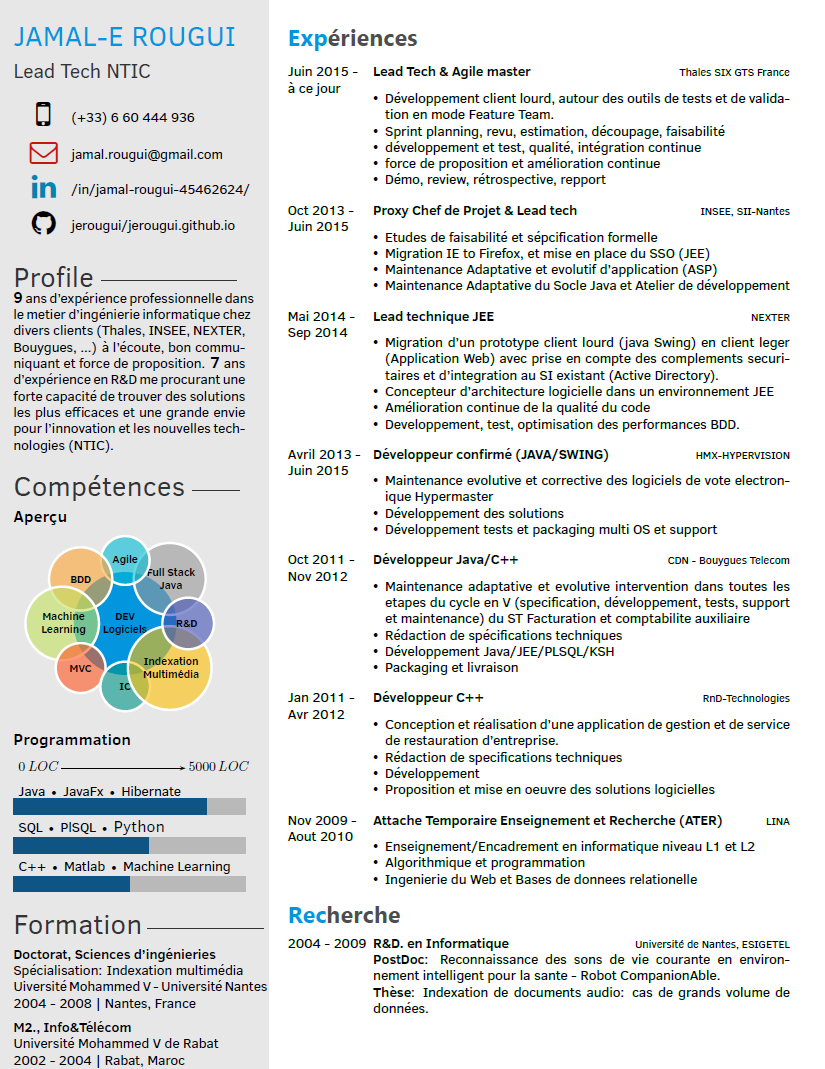
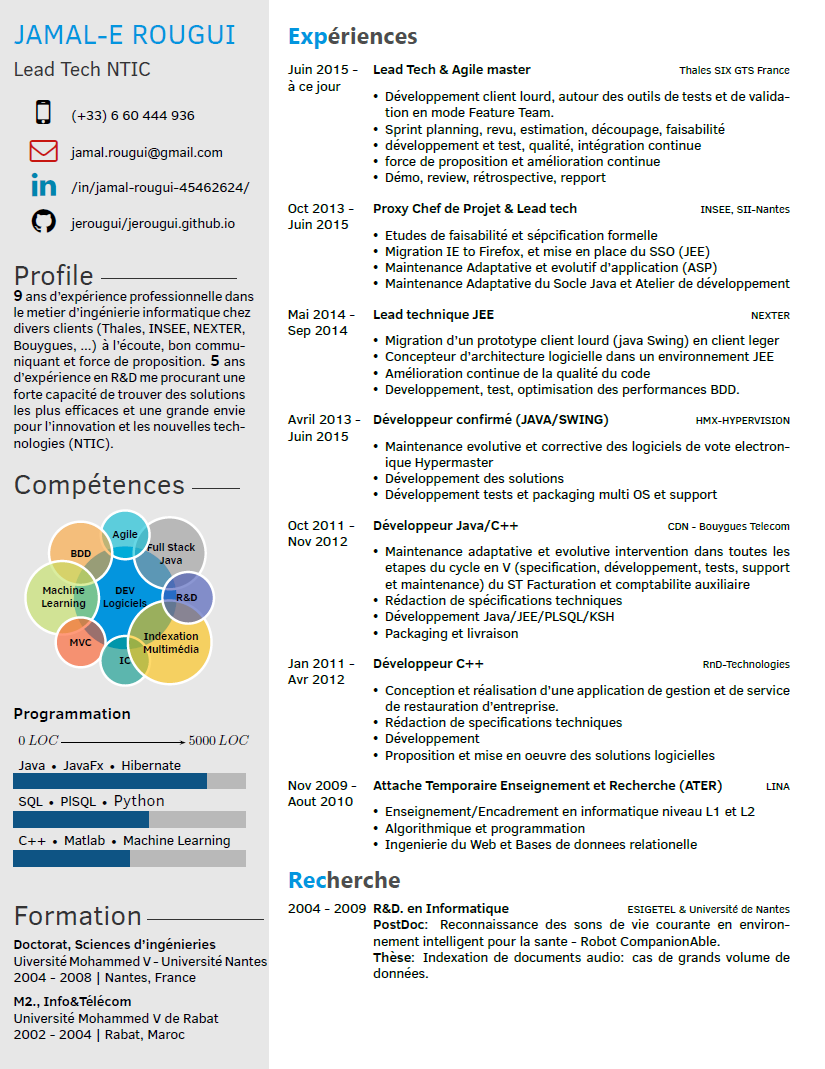
some gui improve

diff --git a/template.tex b/template.tex
@@ -39,7 +39,7 @@
 
 \aboutme{\\
  {\large \textbf{9}} ans d'expérience professionnelle dans le metier d'ingénierie informatique chez divers clients (Thales, INSEE, NEXTER, Bouygues, ...) à l'écoute, bon communiquant et force de proposition.
- {\large \textbf{7}} ans d'expérience en R\&D me procurant une forte capacité de trouver des solutions les plus efficaces et une grande envie pour l'innovation et les nouvelles technologies (NTIC).
+ {\large \textbf{5}} ans d'expérience en R\&D me procurant une forte capacité de trouver des solutions les plus efficaces et une grande envie pour l'innovation et les nouvelles technologies (NTIC).
 %Passionné par l'innovation et la veille technique, toujours attiré par des projet innovant et "from skratch" faisant appel à des outils et Frameworks maintenable et libres.
 }
 
@@ -49,7 +49,6 @@
 % Projects text
 \education{
 \textbf{Doctorat, Sciences d'ingénieries}\\
-Spécialisation: Indexation multimédia \\
 Uiversité Mohammed V - Université Nantes \\
 2004 - 2008 | Nantes, France
 
@@ -123,8 +122,7 @@ Université Mohammed V de Rabat \\
         {}
         {
         {\begin{itemize}
-     		\item Migration d'un prototype client lourd (java Swing) en client leger (Application Web) avec prise en compte
-     		des complements securitaires et d'integration au SI existant (Active Directory).
+     		\item Migration d'un prototype client lourd (java Swing) en client leger
      		\item Concepteur d'architecture logicielle dans un environnement JEE
      		\item Amélioration continue de la qualité du code
      		\item Developpement, test, optimisation des performances BDD.
@@ -203,7 +201,7 @@ Université Mohammed V de Rabat \\
     	{2004 - 2009}
 		{}
         {R\&D. en Informatique}
-        {\href{https://www.univ-nantes.fr/}{Université de Nantes, ESIGETEL}}
+        {\href{https://www.univ-nantes.fr/}{ESIGETEL \& Université de Nantes}}
         {}
 	       {
 	        \textbf{PostDoc}: Reconnaissance des sons de vie courante en environnement intelligent pour la sante - Robot CompanionAble. \\
